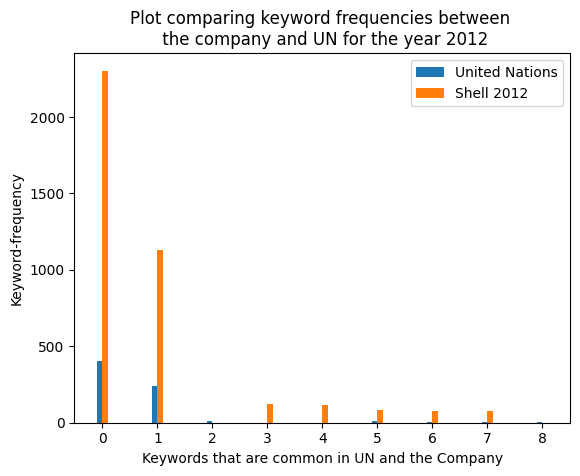
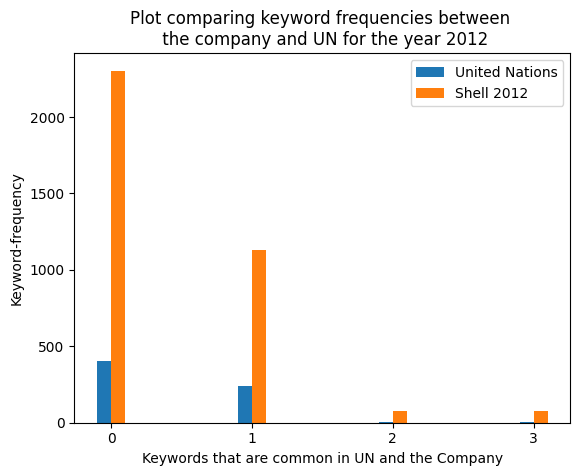
add cosine-similarity test and filter condition

diff --git a/shekhar.py b/shekhar.py
@@ -2,6 +2,8 @@ from matplotlib import pyplot
 import pandas as pd
 import numpy as np
 from scipy.stats import chi2_contingency
+from numpy import dot
+from numpy.linalg import norm
 
 
 def welcome_message():
@@ -12,6 +14,7 @@ def prepare_data_from_csv(file):
     # We only focus on first three columns - keyword, frequency in UN, frequency in Company_Year (others not relevant)
     # sorting of data in csv is not important, otherwise the graph would look falling horizontally as it progresses
     df = pd.read_csv(file, sep=',')
+    df = df[(df['Found_In_UN'] == 1) & (df['Found_In_Shell2012'] == 1)]
     un = df['Frequency_UN']
     shell_2012 = df['Frequency_Shell_2012']
     bins = df.index.values
@@ -32,7 +35,13 @@ def prepare_data_from_csv(file):
     pyplot.ylabel("Keyword-frequency")
     pyplot.show()
     fig.savefig('Shell-2012_UN_influence_analysis.png', bbox_inches='tight')
-    chi_squared_influence_analysis(shell_2012, un)
+    # chi_squared_influence_analysis(shell_2012, un)
+    cosine_similarity(shell_2012, un)
+
+
+def cosine_similarity(list_a, list_b):
+    cos_sim = dot(list_a, list_b) / (norm(list_a) * norm(list_b))
+    print(f"Cos-similarity = {cos_sim}")
 
 
 def chi_squared_influence_analysis(company_year_word_frequency, un_word_frequency):
